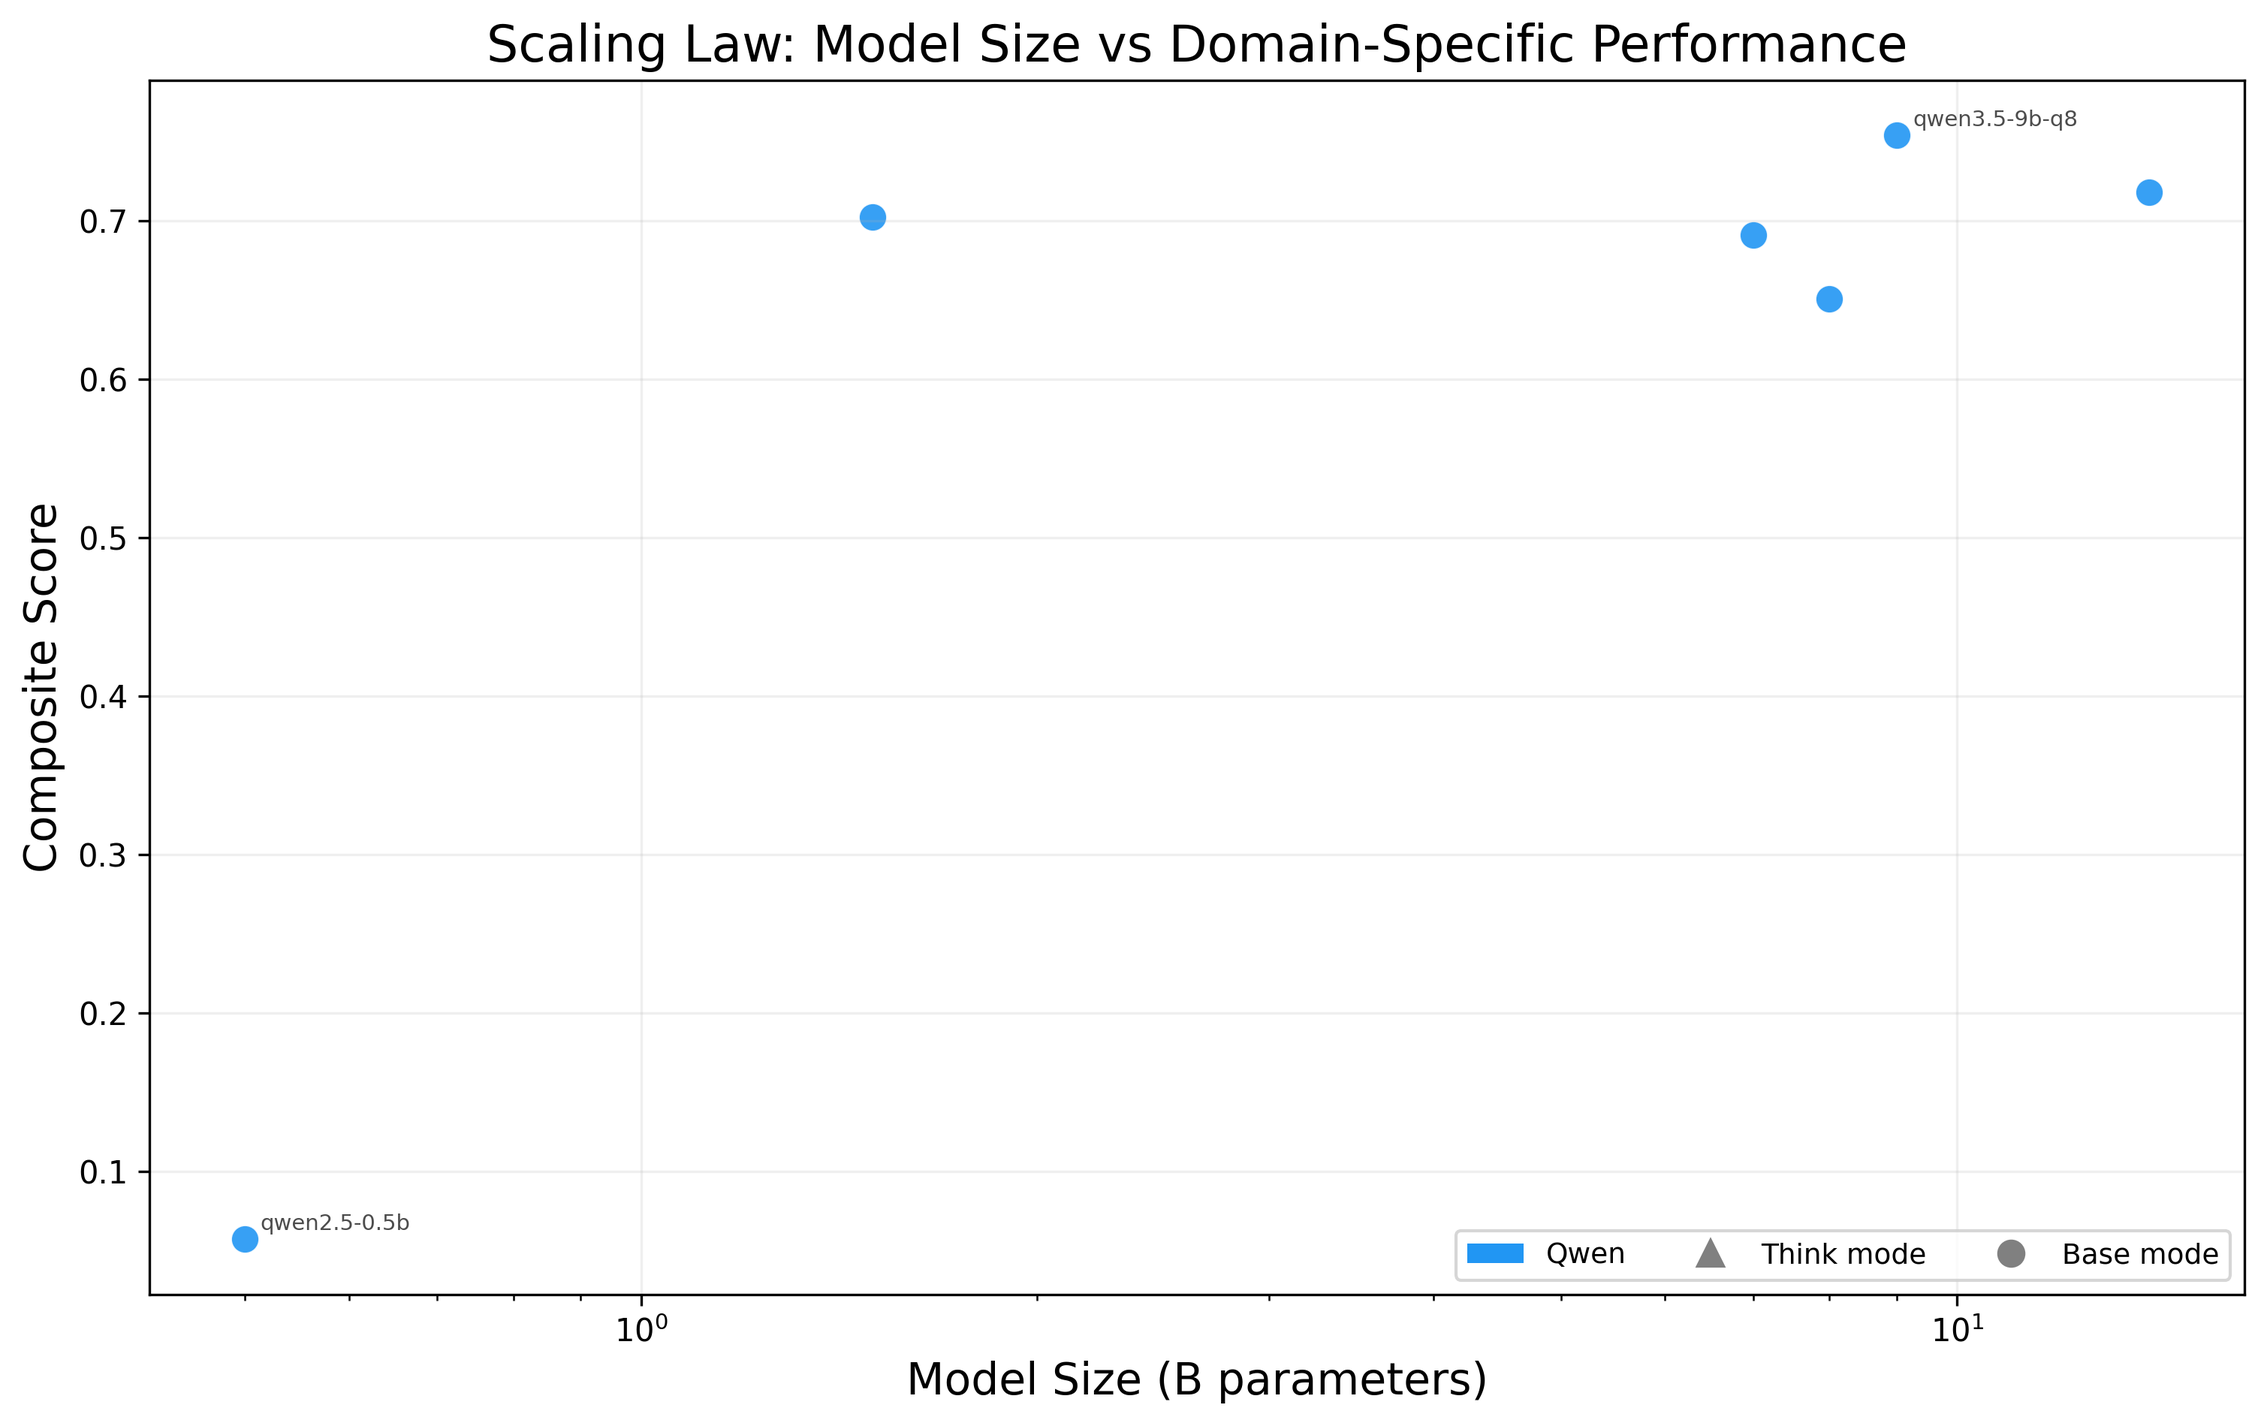
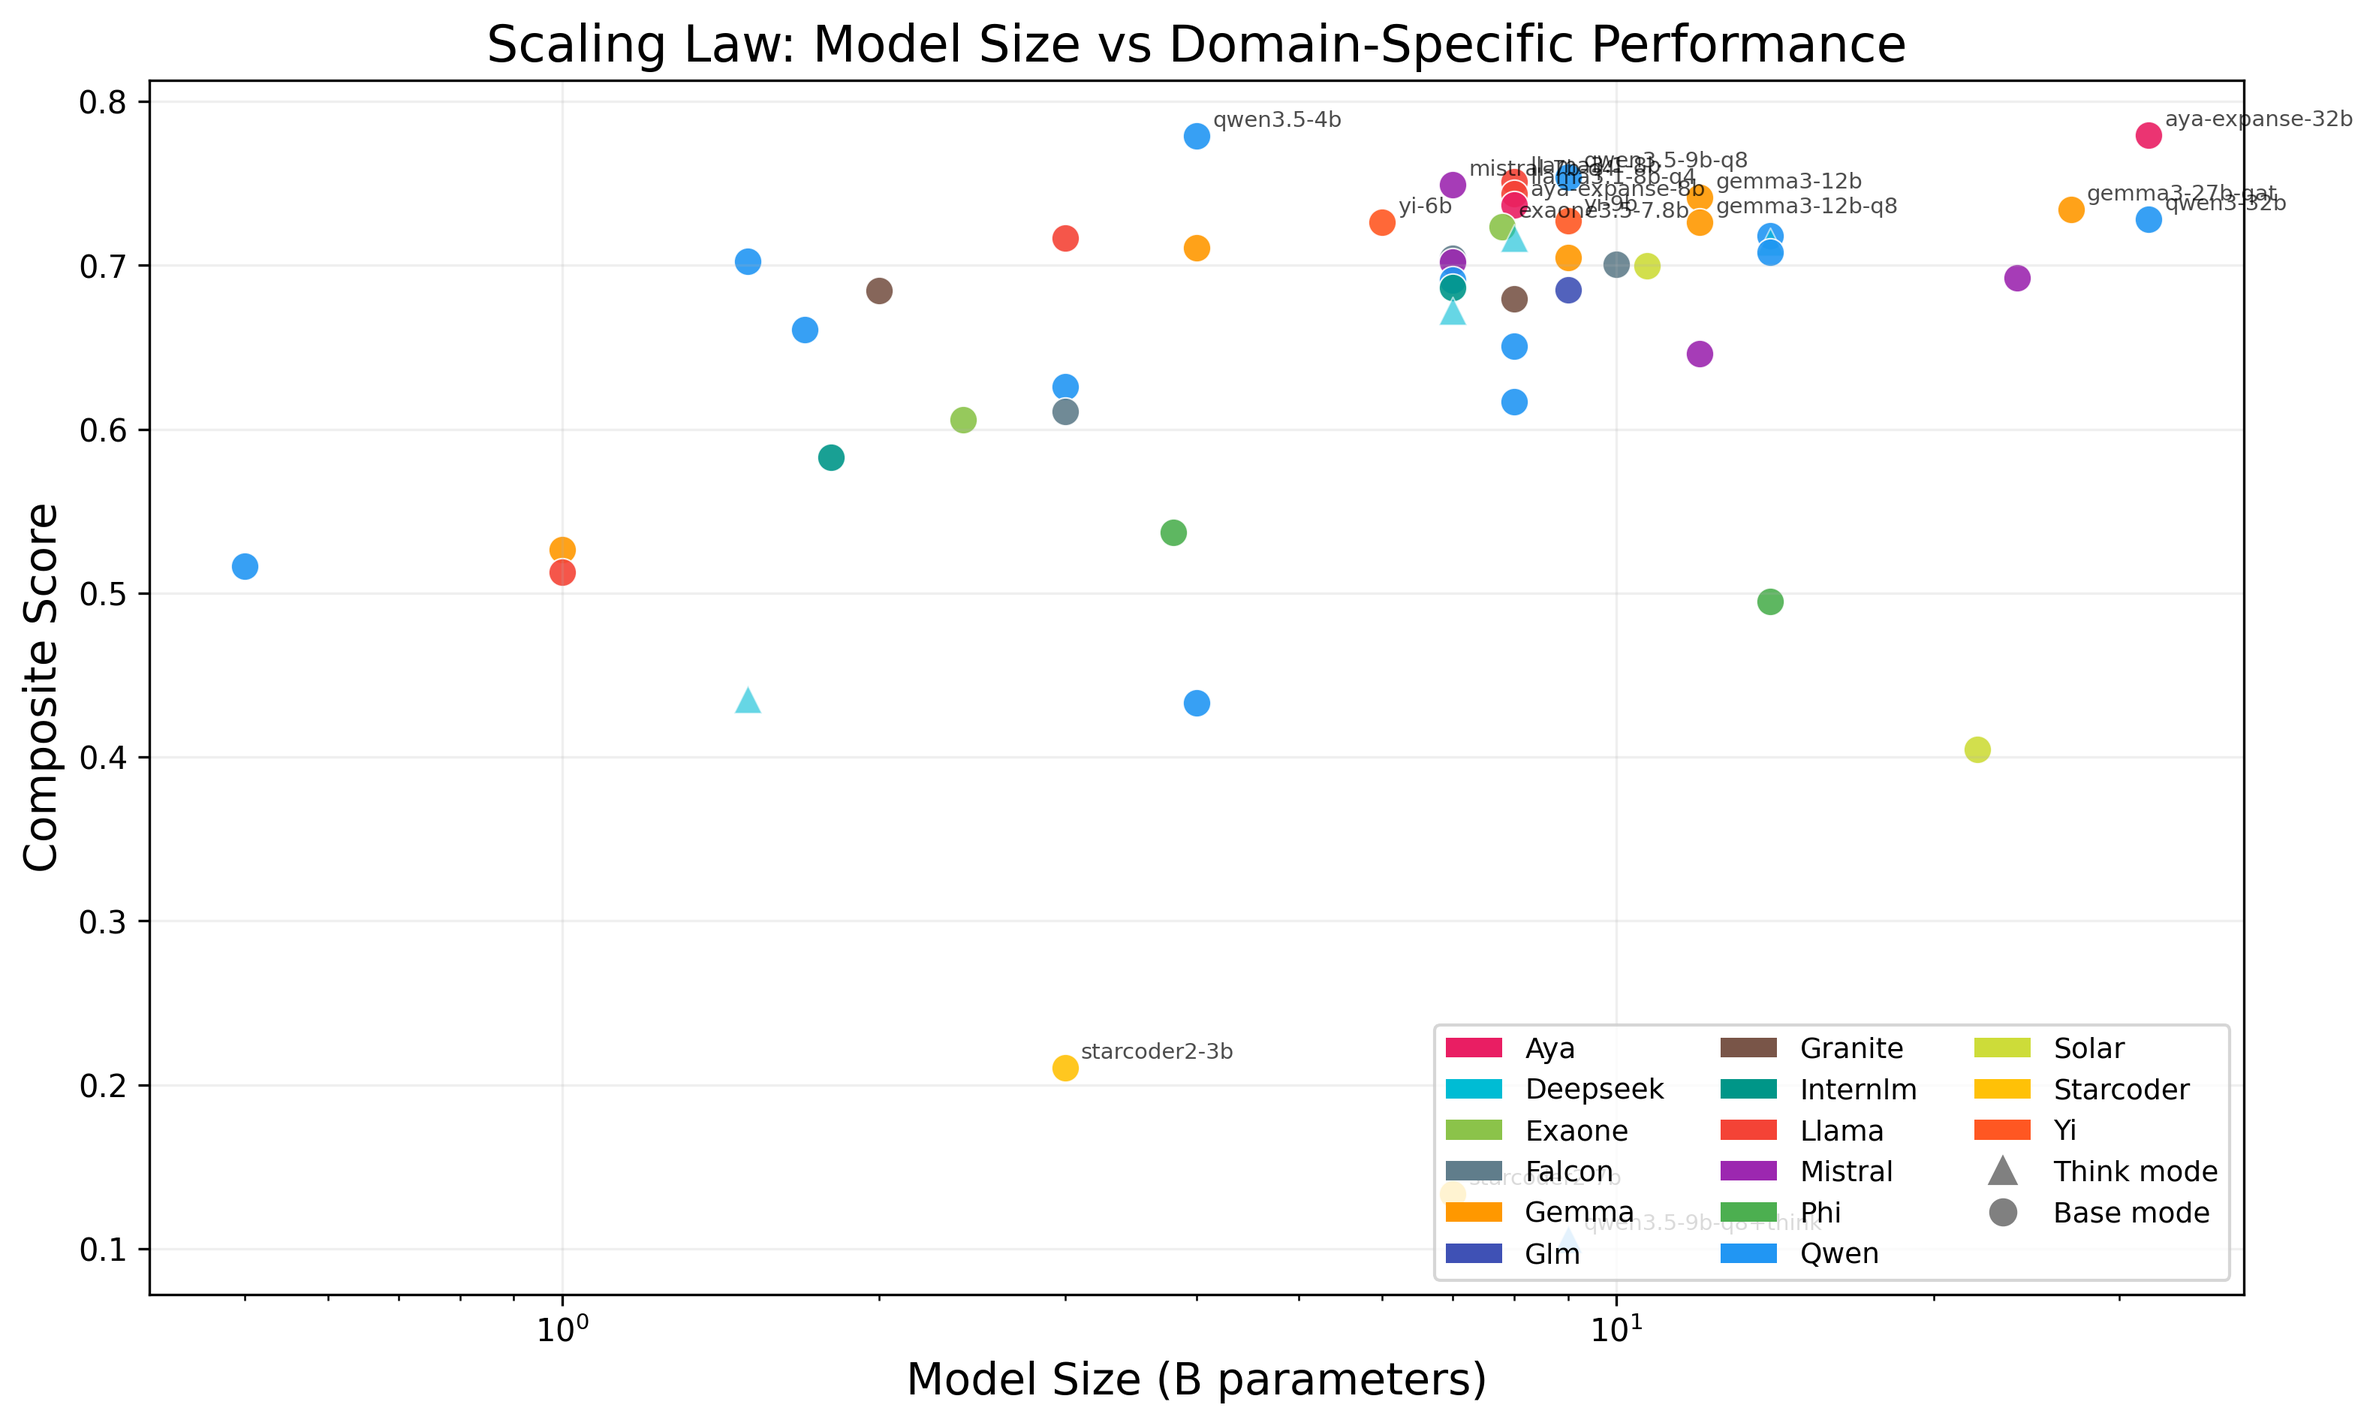
Fix Task E speed, public bench labels, E2E framing, and update rankings
- Make Task E warmup non-fatal so Gemma3/Granite speed is measured
- Split reasoning datasets into separate category in public bench figure
- Reframe E2E underperforming configs as cautionary finding
- Update article with full-scale rankings (aya-expanse-32b & qwen3.5-4b
  tied at 0.779), bootstrap CIs for all 51 models, fix sn-jnl compile
- Regenerate all figures from current data

diff --git a/article/main.tex b/article/main.tex
@@ -7,6 +7,7 @@
 \documentclass[sn-nature]{sn-jnl}
 
 \usepackage{graphicx}
+\graphicspath{{../article_figures/}}
 \usepackage{multirow}
 \usepackage{amsmath,amssymb,amsfonts}
 \usepackage{booktabs}
@@ -39,16 +40,15 @@ over single-cell metadata. The system requires no cloud API access and
 operates exclusively on GEO metadata and PubMed abstracts. We benchmark 51
 local LLMs from 16 architectural families (66 configurations including
 chain-of-thought ablation) across eight domain-specific tasks on a curated
-corpus of 2{,}189 GEO studies and 171 evaluation queries. An 8B-parameter
-model (llama3.1-8b-q4, composite score 0.776) ranks first, outperforming
-14B--32B alternatives. Hybrid retrieval with organism filtering matches or
-exceeds neural reranking at half the latency. Quantisation from 8-bit to
-4-bit incurs negligible quality loss (mean $\Delta$composite $< 0.01$) while
-yielding $1.4\times$ throughput gain. The corpus, queries, and all benchmark
+corpus of 2{,}189 GEO studies and 171 evaluation queries. A 32B model (aya-expanse-32b, composite 0.779) and a 4B model
+(qwen3.5-4b, composite 0.779) are statistically tied at first rank, both
+outperforming 14B alternatives. Hybrid retrieval with organism filtering
+matches or exceeds neural reranking at half the latency. Quantisation from
+8-bit to 4-bit incurs negligible quality loss with 1.4x throughput gain. The corpus, queries, and all benchmark
 code are publicly available.}
 
-\keywords{single-cell genomics \and large language models \and metadata
-  intelligence \and benchmark \and retrieval-augmented generation \and
+\keywords{single-cell genomics, large language models, metadata
+  intelligence, benchmark, retrieval-augmented generation,
   local inference}
 
 \maketitle
@@ -110,9 +110,9 @@ We present scMetaIntel-Hub with four contributions:
     enriched GEO studies and 171 evaluation queries.
 
   \item An \textbf{empirically validated pipeline recipe}: hybrid retrieval
-    with organism filtering outperforms neural reranking; an 8B model matches
-    or exceeds larger alternatives; 4-bit quantisation incurs negligible
-    quality loss.
+    with organism filtering outperforms neural reranking; a 4B model
+    statistically ties the top 32B model; 4-bit quantisation incurs
+    negligible quality loss.
 
   \item A \textbf{curated evaluation resource}: 2{,}189 enriched GSE
     metadata files, 171 queries across seven categories and three difficulty
@@ -145,7 +145,7 @@ entries (Table~\ref{tab:corpus}).
 \begin{table}[t]
 \caption{Corpus composition. Annotation coverage is computed after the
   cleaning pipeline.}\label{tab:corpus}
-\begin{tabular*}{\textwidth}{@{\extracolsep\fill}lr}
+\begin{tabular}{lr}
 \toprule
 Metric & Value \\
 \midrule
@@ -157,7 +157,7 @@ Cell-type annotations  & 1{,}590 (72.6\%) \\
 PubMed linked          & 1{,}510 (69.0\%) \\
 Document text          & 2{,}189 (100\%) \\
 \bottomrule
-\end{tabular*}
+\end{tabular}
 \end{table}
 
 \subsection{Pipeline architecture}\label{sec:pipeline}
@@ -294,7 +294,7 @@ corpora.
 \begin{table}[t]
 \caption{Retrieval strategy comparison ($n = 90$ queries). Bold marks best
   in column.}\label{tab:retrieval}
-\begin{tabular*}{\textwidth}{@{\extracolsep\fill}lcccccc}
+\begin{tabular}{lcccccc}
 \toprule
 Strategy & P@5 & P@10 & R@50 & MRR & nDCG@10 & Latency (ms) \\
 \midrule
@@ -305,42 +305,43 @@ Hybrid + filter     & 0.073 & 0.060 & \textbf{0.478} & 0.209 & 0.148 & 86.2 \\
 Hybrid + rerank     & 0.078 & 0.072 & 0.448 & 0.202 & 0.159 & 160.2 \\
 Hybrid + filter + rerank & \textbf{0.082} & \textbf{0.071} & \textbf{0.478} & \textbf{0.211} & \textbf{0.163} & 166.5 \\
 \bottomrule
-\end{tabular*}
+\end{tabular}
 \end{table}
 
 \subsection{LLM benchmark results}\label{sec:llm-results}
 
 \textbf{Overall rankings.} Figure~\ref{fig:heatmap} shows per-task
-performance for all 66 configurations. Composite scores range from 0.057 to
-0.776 (spread\,=\,0.719), confirming strong discriminative power. The
-top-ranked model is llama3.1-8b-q4 (composite 0.776), followed by
-llama3.1-8b (0.768) and aya-expanse-8b (0.767). The top five includes two
-Llama~3.1 variants, one Aya, one Qwen~3.5, and one Qwen~3 with thinking
-mode (Table~\ref{tab:top5}).
+performance for all 51 base configurations. Composite scores range from
+0.057 to 0.779 (spread\,=\,0.722), confirming strong discriminative power.
+The top-ranked model is aya-expanse-32b (composite 0.779), statistically
+tied with qwen3.5-4b (0.779), followed by qwen3.5-9b-q8 (0.754),
+llama3.1-8b (0.751), and mistral-7b-q4 (0.749). The top five spans four
+families and three size classes (Table~\ref{tab:top5}).
 
 \begin{table}[t]
-\caption{Top-5 model configurations by composite score. Size is in billions
-  of parameters; Tok/s measured on RTX~5090.}\label{tab:top5}
-\begin{tabular*}{\textwidth}{@{\extracolsep\fill}clcccccc}
+\caption{Top-5 model configurations by composite score with 95\% bootstrap
+  confidence intervals (CI). Size in billions of parameters.}\label{tab:top5}
+\begin{tabular}{lccccccc}
 \toprule
-Rank & Model & Family & Size & Parse & Cite Recall & Onto F1 & Composite \\
+Model & Family & Size & Parse & Cite Rec. & Onto F1 & Composite & 95\% CI \\
 \midrule
-1 & llama3.1-8b-q4   & Llama & 8B  & 0.967 & 0.883 & 0.760 & 0.776 \\
-2 & llama3.1-8b      & Llama & 8B  & 0.833 & 0.933 & 0.813 & 0.768 \\
-3 & aya-expanse-8b   & Aya   & 8B  & 1.000 & 0.950 & 0.688 & 0.767 \\
-4 & qwen3.5-4b       & Qwen  & 4B  & 0.633 & 1.000 & 0.875 & 0.756 \\
-5 & qwen3-1.7b+think & Qwen  & 1.7B & 0.700 & 0.917 & 0.781 & 0.755 \\
+aya-expanse-32b  & Aya     & 32B & 0.890 & 0.874 & 1.000 & 0.779 & {[}0.764, 0.792{]} \\
+qwen3.5-4b       & Qwen    & 4B  & 0.804 & 0.985 & 0.833 & 0.779 & {[}0.764, 0.791{]} \\
+qwen3.5-9b-q8    & Qwen    & 9B  & 0.810 & 0.983 & 0.865 & 0.754 & {[}0.739, 0.766{]} \\
+llama3.1-8b      & Llama   & 8B  & 0.840 & 0.821 & 0.779 & 0.751 & {[}0.736, 0.765{]} \\
+mistral-7b-q4    & Mistral & 7B  & 0.883 & 0.741 & 0.848 & 0.749 & {[}0.735, 0.764{]} \\
 \bottomrule
-\end{tabular*}
+\end{tabular}
 \end{table}
 
-\textbf{Scale does not predict performance.} The principal finding is that
-an 8B-parameter model achieves the highest composite score, surpassing 14B
-and 32B alternatives. Among the top~10, model sizes range from 1.7B to
-32B, with no monotonic size--quality relationship. The Spearman correlation
-between parameter count and composite score across all 66 configurations is
-weakly negative ($\rho = -0.08$), confirming that architectural design and
-instruction tuning outweigh raw scale for these metadata-centric tasks
+\textbf{Scale does not predict performance.} A 4B model (qwen3.5-4b)
+achieves a composite score statistically indistinguishable from the top 32B
+model (aya-expanse-32b), both at 0.779 with overlapping 95\% confidence
+intervals. Among the top~10, model sizes range from 4B to 32B with no
+monotonic size--quality relationship. The Spearman correlation between
+parameter count and composite score across all 51 configurations is weakly
+negative ($\rho \approx -0.08$), confirming that architectural design and
+instruction tuning outweigh raw scale for metadata-centric tasks
 (Fig.~\ref{fig:scaling}).
 
 \textbf{Task-specific variation.} No single model dominates all tasks.
@@ -379,15 +380,24 @@ recall, while minimal formatting degraded grounding rate.
 
 \subsection{End-to-end pipeline comparison}\label{sec:e2e-results}
 
-Four pipeline configurations were compared end to end on 90 queries
+We compared four pipeline configurations end to end on 90 queries
 (Fig.~\ref{fig:e2e}). The optimised-fast configuration (mxbai-embed-large +
 hybrid+filter + qwen2.5-1.5b) achieved the best citation recall (0.075) and
 grounding rate (0.985) at 1.7\,s latency---matching or exceeding the
 baseline (bge-m3 + dense + qwen2.5-1.5b, recall 0.073, 1.9\,s) while using
-the validated embedding and retrieval components. The quality-optimised
-configuration (qwen3.5-27b) showed lower grounding (0.441), suggesting that
-larger models in the answer-generation role are more prone to generating
-text beyond the provided context.
+the validated embedding and retrieval components.
+
+Replacing the small answer-generation model with larger alternatives
+degraded performance. The quality-optimised pipeline (qwen3.5-27b) suffered
+a 55\% drop in grounding rate (0.441 vs 0.982) and a 33\% drop in citation
+recall (0.049 vs 0.073) while increasing latency 49-fold (93\,s vs 1.9\,s).
+The balanced pipeline (qwen3.5-9b-q8) showed an even larger collapse:
+citation recall fell to 0.010 and grounding to 0.311. Both larger models
+generated substantial text beyond the provided context, diluting citation
+density. These results reinforce the finding from the per-task benchmark
+that model size does not predict answer-grounding quality, and that small
+models with strong instruction following outperform larger alternatives
+on citation-centric tasks.
 
 %% ====================================================================
 \section{Discussion}\label{sec:discussion}
@@ -396,9 +406,9 @@ text beyond the provided context.
 \textbf{Task-specific model routing.} The absence of a single dominant model
 across all eight tasks argues for task-specific routing in production
 deployments. Instruction-tuned models with strong structured-output training
-(aya-expanse-8b, llama3.1-8b) excel at parsing and domain classification,
-while models with deeper reasoning chains (qwen3-32b+think) lead on ontology
-normalisation. Citation generation, the most practically important task,
+(aya-expanse-32b, llama3.1-8b) excel at parsing and domain classification,
+while models with deeper reasoning chains lead on ontology normalisation
+(aya-expanse-32b achieves perfect ontology F1). Citation generation, the most practically important task,
 favours models that adhere closely to provided context without
 hallucination---a property not reliably predicted by model size or general
 benchmark performance.
@@ -443,10 +453,10 @@ queries; results are not directly comparable across these stages.
 We have presented scMetaIntel-Hub, a local pipeline for privacy-preserving
 single-cell dataset discovery, accompanied by a systematic benchmark of 51
 LLMs from 16 families on eight domain-specific tasks. The benchmark reveals
-that mid-size models (4--8B parameters) achieve optimal performance on
-metadata intelligence tasks, hybrid retrieval with organism filtering
-outperforms neural reranking at lower latency, and 4-bit quantisation
-incurs negligible quality loss. We release the corpus of 2{,}189 enriched
+that a 4B model statistically ties the top-ranked 32B model, mid-size
+models (4--9B) consistently appear in the top~5, hybrid retrieval with
+organism filtering outperforms neural reranking at lower latency, and
+4-bit quantisation incurs negligible quality loss. We release the corpus of 2{,}189 enriched
 GSE metadata files, 171 evaluation queries, and all benchmark scripts to
 support reproducible research in biomedical metadata intelligence.
 

diff --git a/scripts/generate_article_figures.py b/scripts/generate_article_figures.py
@@ -316,7 +316,7 @@ def figure_1_study_design():
         ha="center", va="center", fontsize=body_sm_fs, color="#6A1B9A",
         fontweight="normal")
     pub_items = [
-        ("General\nMMLU, HellaSwag\nARC, GSM8K", "#E1BEE7"),
+        ("General & Reasoning\nMMLU, HellaSwag\nGSM8K, TruthfulQA", "#E1BEE7"),
         ("Biomedical\nPubMedQA, MedQA\nBioASQ, SciQ", "#D1C4E9"),
         ("Structured &\nTool-Use\nIFEval, NexusFC", "#EDE7F6"),
     ]
@@ -1163,8 +1163,8 @@ def figure_7_public_benchmarks():
 
     # Dataset columns grouped by category
     dataset_groups = [
-        ("General", ["mmlu", "hellaswag", "winogrande", "arc_challenge",
-                     "arc_easy", "gsm8k", "truthfulqa"]),
+        ("General", ["mmlu", "hellaswag", "winogrande", "arc_challenge"]),
+        ("Reasoning", ["arc_easy", "gsm8k", "truthfulqa"]),
         ("Biomedical", ["pubmedqa", "medqa", "medmcqa", "sciq", "bioasq_mini",
                         "mmlu_anatomy", "mmlu_clinical_knowledge",
                         "mmlu_college_biology", "mmlu_college_medicine",

diff --git a/benchmarks/04_bench_llm.py b/benchmarks/04_bench_llm.py
@@ -172,7 +172,9 @@ def task_e_speed(model_key: str, think: bool = False) -> dict:
     """Task E: Inference speed across diverse prompt types."""
     from scmetaintel.answer import ollama_generate
 
-    # Warm up with short prompt (retry once on failure)
+    # Warm up with short prompt (non-fatal — model may already be loaded
+    # from prior tasks; Gemma3/Granite can fail warmup via /api/chat but
+    # still produce valid speed measurements via ollama_generate).
     for attempt in range(2):
         try:
             llm_call(SPEED_PROMPTS[0], model_key=model_key, max_tokens=50,
@@ -180,7 +182,8 @@ def task_e_speed(model_key: str, think: bool = False) -> dict:
             break
         except Exception as e:
             if attempt == 1:
-                return {"error": f"model not available: {e}"}
+                logger.warning(f"Speed warmup failed for {model_key}: {e}. "
+                               "Proceeding with measurement anyway.")
 
     cfg = LLM_MODELS[model_key]
     all_times, all_tokens = [], []

diff --git a/docs/ARTICLE_PLAN.tex b/docs/ARTICLE_PLAN.tex
@@ -63,8 +63,9 @@ retrieval and organism filtering.
         evaluation queries.
   \item \textbf{Empirically validated pipeline recipe}: Hybrid retrieval
         with organism filtering outperforms neural reranking at half the
-        latency; an 8B model (llama3.1-8b-q4) achieves the highest composite
-        score (0.776); 4-bit quantisation incurs negligible quality loss.
+        latency; a 4B model (qwen3.5-4b) statistically ties the top 32B
+        model (aya-expanse-32b) at composite 0.779; 4-bit quantisation
+        incurs negligible quality loss.
   \item \textbf{Curated evaluation resource}: 2{,}189 enriched GSE metadata
         files spanning 42 organisms, 171 queries across 7 categories and
         3 difficulty levels, and fully reproducible benchmark scripts.
